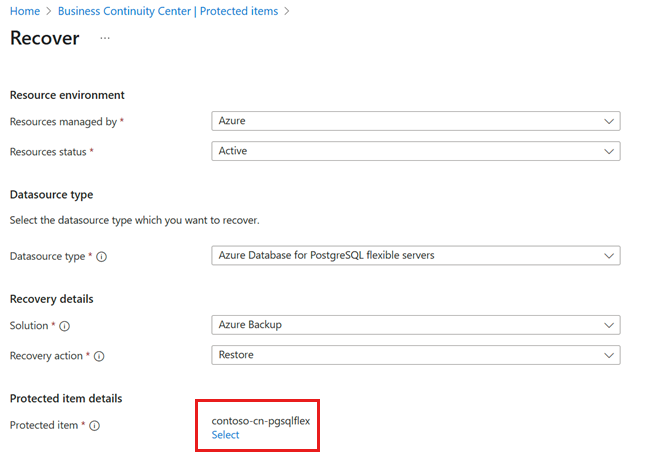
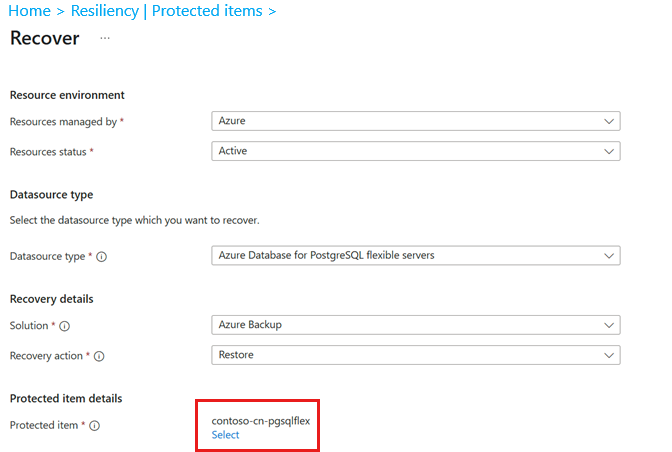
Resiliency flow update - PSQL-Flex  DB restore 2  tutorials

Changed region(s): [[0.0, 0.0, 0.4375, 0.0619]]

diff --git a/articles/backup/tutorial-cross-region-restore.md b/articles/backup/tutorial-cross-region-restore.md
@@ -2,7 +2,7 @@
 title: Tutorial - Configure and run Cross Region Restore for Azure database for PostgreSQL
 description: Learn how to configure and run Cross Region Restore for Azure database for PostgreSQL using Azure Backup.
 ms.topic: tutorial
-ms.date: 04/07/2025
+ms.date: 01/29/2026
 ms.service: azure-backup
 ms.author: v-mallicka
 # Customer intent: "As a database administrator, I want to configure and run Cross Region Restore for Azure PostgreSQL databases, so that I can ensure data resiliency and perform recovery drills without downtime in the primary region."
@@ -68,7 +68,7 @@ To restore the database to the secondary region, follow these steps:
 1. Go to the Backup vault’s **Overview** pane, and then configure a backup for PostgreSQL database. 
     > [!Note]
     > Once the backup is complete in the primary region, it can take up to 12 hours for the recovery point in the primary region to get replicated to the secondary region. 
-1. To check the availability of recovery point in the secondary region, go to the **Backup center** > **Backup Instances**.
+1. To check the availability of recovery point in the secondary region, go to the **Backup vault** > **Backup Instances**.
 1. Filter to **Azure Database for PostgreSQL servers**, then filter Instance region as **Secondary Region**, and then select the required Backup Instance. 
      :::image type="content" source="./media/create-manage-backup-vault/view-jobs-in-secondary-region.png" alt-text="Screenshot showing how to view jobs in secondary region." lightbox="./media/create-manage-backup-vault/view-jobs-in-secondary-region.png":::
 

diff --git a/articles/backup/tutorial-restore-postgresql-flex.md b/articles/backup/tutorial-restore-postgresql-flex.md
@@ -2,7 +2,7 @@
 title: Tutorial - Restore Azure Database for PostgreSQL - Flexible Server using Azure portal
 description: Learn how to restore Azure Database for PostgreSQL - Flexible Server using Azure portal.
 ms.topic: tutorial
-ms.date: 03/04/2025
+ms.date: 01/29/2026
 ms.service: azure-backup
 ms.custom:
   - ignite-2024
@@ -70,7 +70,7 @@ Once the backup is complete in the primary region, it can take up to **12 hours*
 
 To restore recovery point in the secondary region, follow these steps:
 
-1. Go to **Business Continuity Center**, and then select **Recover** on the top menu.
+1. Go to **Resiliency**, and then select **Recover** on the top menu.
 2. On the **Protected items** pane, under **Protected item**, select the **Select** option to choose the protected item that you want to restore.
 
    :::image type="content" source="./media/tutorial-restore-postgresql-flex/select-protected-items-for-restore.png" alt-text="Screenshot shows the selection of a recovery point for the database restore." lightbox="./media/tutorial-restore-postgresql-flex/select-protected-items-for-restore.png":::
